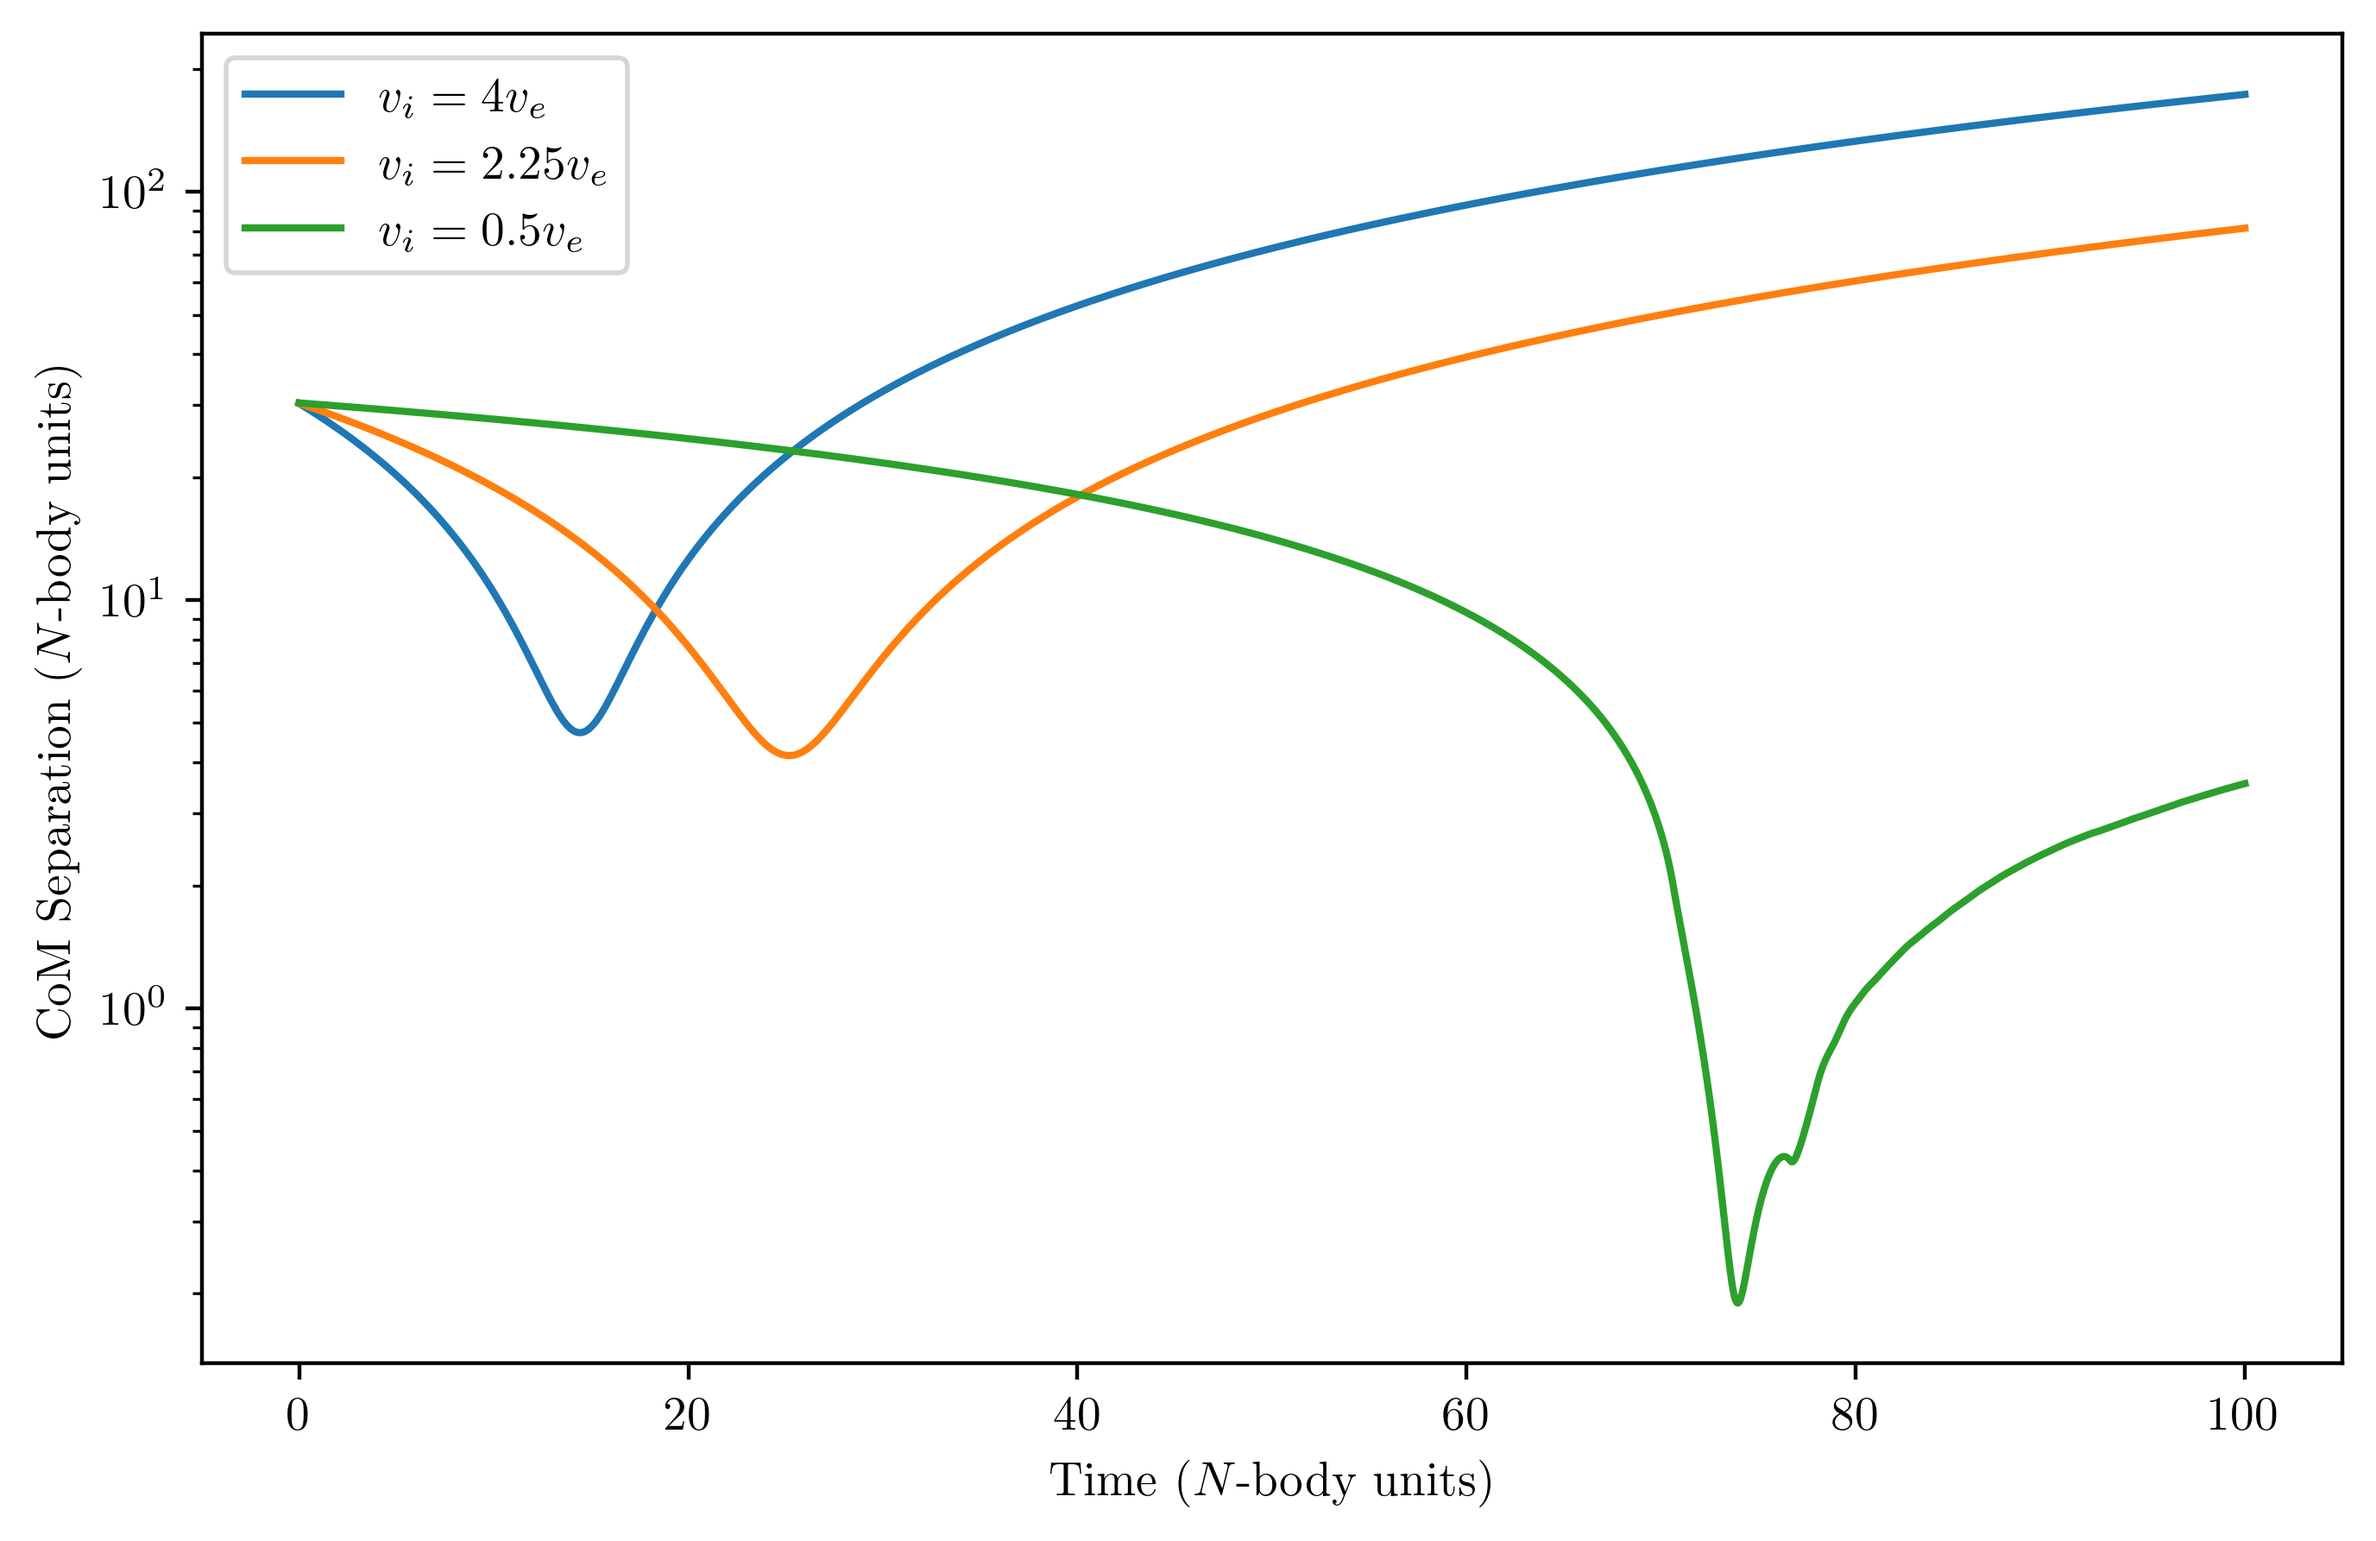
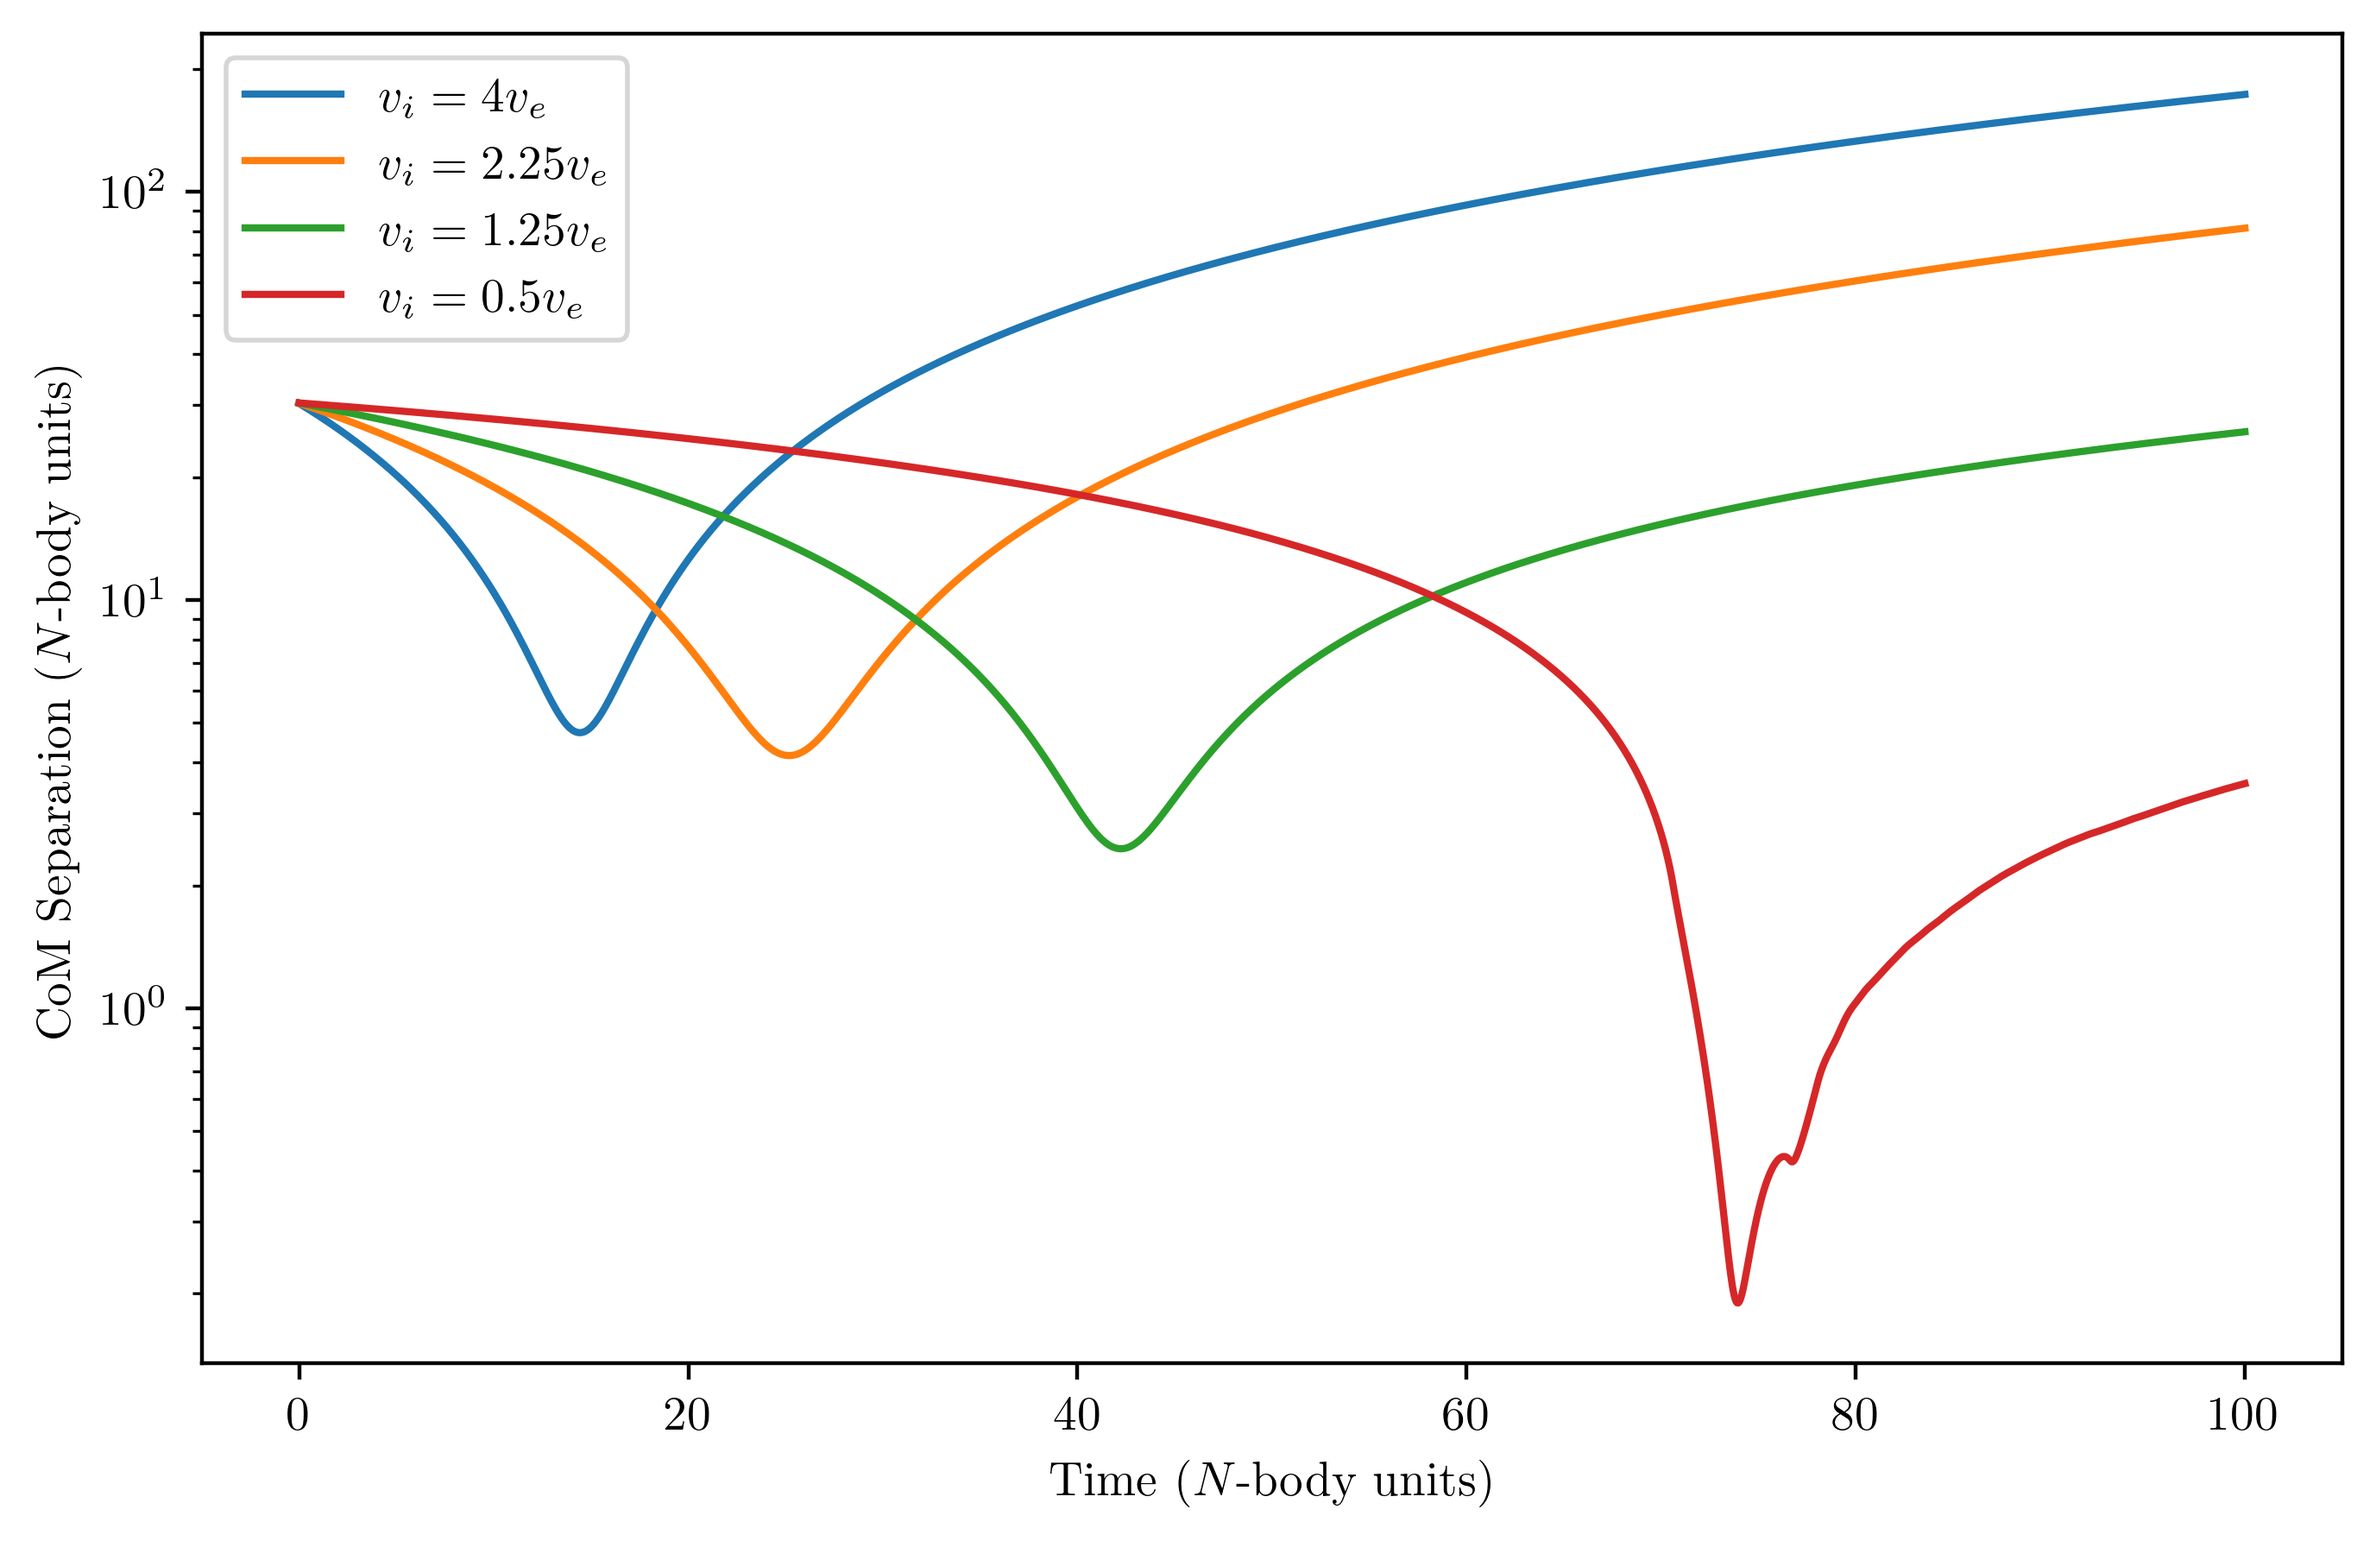
Finally fix fps code, include 1.25v_e collision

diff --git a/GalaxyCollision.py b/GalaxyCollision.py
@@ -24,9 +24,11 @@ N = 2 * N1
 
 colours = np.append(['lightcoral'] * N1, ['paleturquoise'] * N1)
 
-all_pos = np.zeros((2 * N1, 3, nt, 3))
+
 
 rel_vels = [4, 2.25, 1.25, 0.5]
+all_pos = np.zeros((2 * N1, 3, nt, len(rel_vels)))
+
 for i, rel_vel in enumerate(rel_vels):
     pos = np.append(pos1, pos1, axis=0)
     masses = np.append(masses1, masses1)
@@ -45,7 +47,7 @@ for i, rel_vel in enumerate(rel_vels):
     
     all_pos[:, :, :, i] = positions
     
-    nbody.animate_sim(positions, f'GalaxyCollision-{rel_vel}v_e', 10, colours=colours, every=3, times=[True, times])
+    nbody.animate_sim(positions, f'GalaxyCollision-{rel_vel}v_e', 30, colours=colours, every=3, times=[True, times])
     
     # we want to plot the radial extent of stellar populations of one galaxy in the final merger case
     if rel_vel == 0.5:
@@ -80,7 +82,7 @@ for i in range(nt):
 
 fig, ax = plt.subplots(figsize=(8, 5))
 
-for i in range(3):
+for i in range(len(rel_vels)):
     ax.plot(times, com_separations[:, i], label=f'$v_i = {rel_vels[i]}v_e$')
 ax.legend()
 ax.set_xlabel("Time ($N$-body units)")

diff --git a/CommonTools.py b/CommonTools.py
@@ -103,7 +103,7 @@ def animate_sim(positions, filename, length, colours=[], every=1, times=[False])
     # now calculate some parameters for the animation frames and timing
     nt = len(positions[0, 0, :]) # number of timesteps
     frames = np.arange(0, nt, every)    # iterable for the animation function. Chooses which frames (indices) to animate.
-    fps = len(frames) / length  # fps for the final animation
+    fps = len(frames) // length  # fps for the final animation
     
     ax.set_facecolor('k')   # black background, since space is blach duh
     
